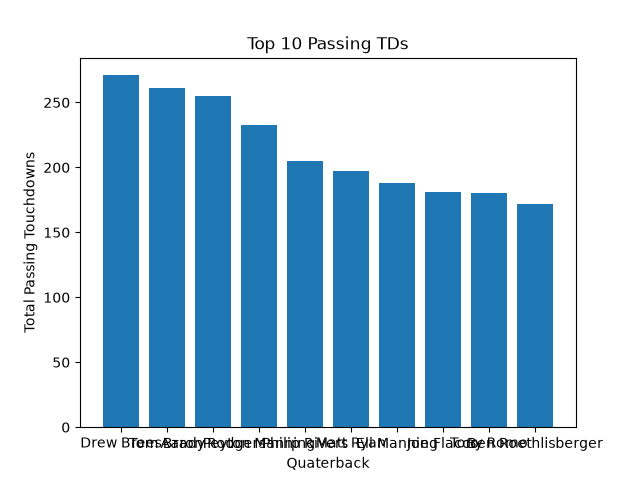
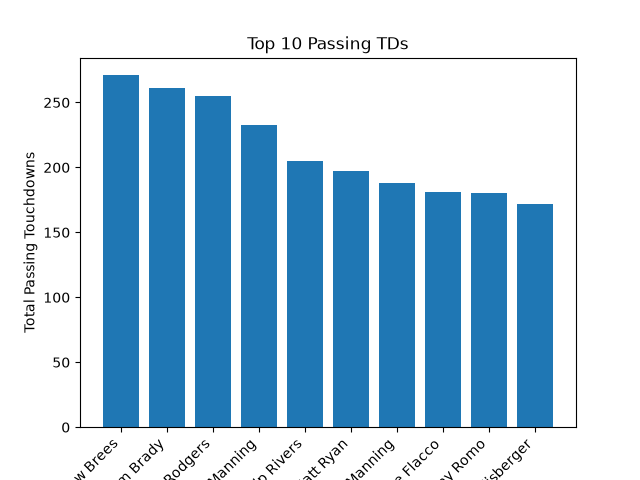
added charts

diff --git a/charts.py b/charts.py
@@ -10,5 +10,49 @@ plt.bar(df1['full_name'], df1['total_pass_td'])
 plt.xlabel('Quaterback')
 plt.ylabel('Total Passing Touchdowns')
 plt.title('Top 10 Passing TDs')
+plt.xticks(rotation=45, ha='right')
+plt.tight_layout()
 plt.savefig('topPassersChart.png')
+plt.show()
+
+#Chart 2: Bar chart for top rushers
+plt.figure()   
+
+df2 = pd.read_csv('data/topRushers.csv')
+df2['full_name'] = df2['FIRST_NAME'] + ' ' + df2['LAST_NAME']
+plt.bar(df2['full_name'], df2['total_rush_yd'])
+plt.xlabel('Rusher')
+plt.ylabel('Total Rushing Yards')
+plt.title('Top 10 Rushers')
+plt.xticks(rotation=45, ha='right')
+plt.tight_layout()
+plt.savefig('topRushersChart.png')
+plt.show()
+
+#Chart 3: Bar chart for top Touchdown Scorers
+plt.figure()   
+
+df3 = pd.read_csv('data/topTdScorers.csv')
+df3['full_name'] = df3['FIRST_NAME'] + ' ' + df3['LAST_NAME']
+plt.bar(df3['full_name'], df3['total_rush_yd'])
+plt.xlabel('Player')
+plt.ylabel('Total Touchdowns Yards')
+plt.title('Top 10 Touchdown Scorers')
+plt.xticks(rotation=45, ha='right')
+plt.tight_layout()
+plt.savefig('topTdScorersChart.png')
+plt.show()
+
+#Chart 4: Horizontal bar chart for most team wins
+plt.figure()   
+
+df3 = pd.read_csv('data/topTdScorers.csv')
+df3['full_name'] = df3['FIRST_NAME'] + ' ' + df3['LAST_NAME']
+plt.bar(df3['full_name'], df3['total_rush_yd'])
+plt.xlabel('Player')
+plt.ylabel('Total Touchdowns Yards')
+plt.title('Top 10 Touchdown Scorers')
+plt.xticks(rotation=45, ha='right')
+plt.tight_layout()
+plt.savefig('topTdScorersChart.png')
 plt.show()
